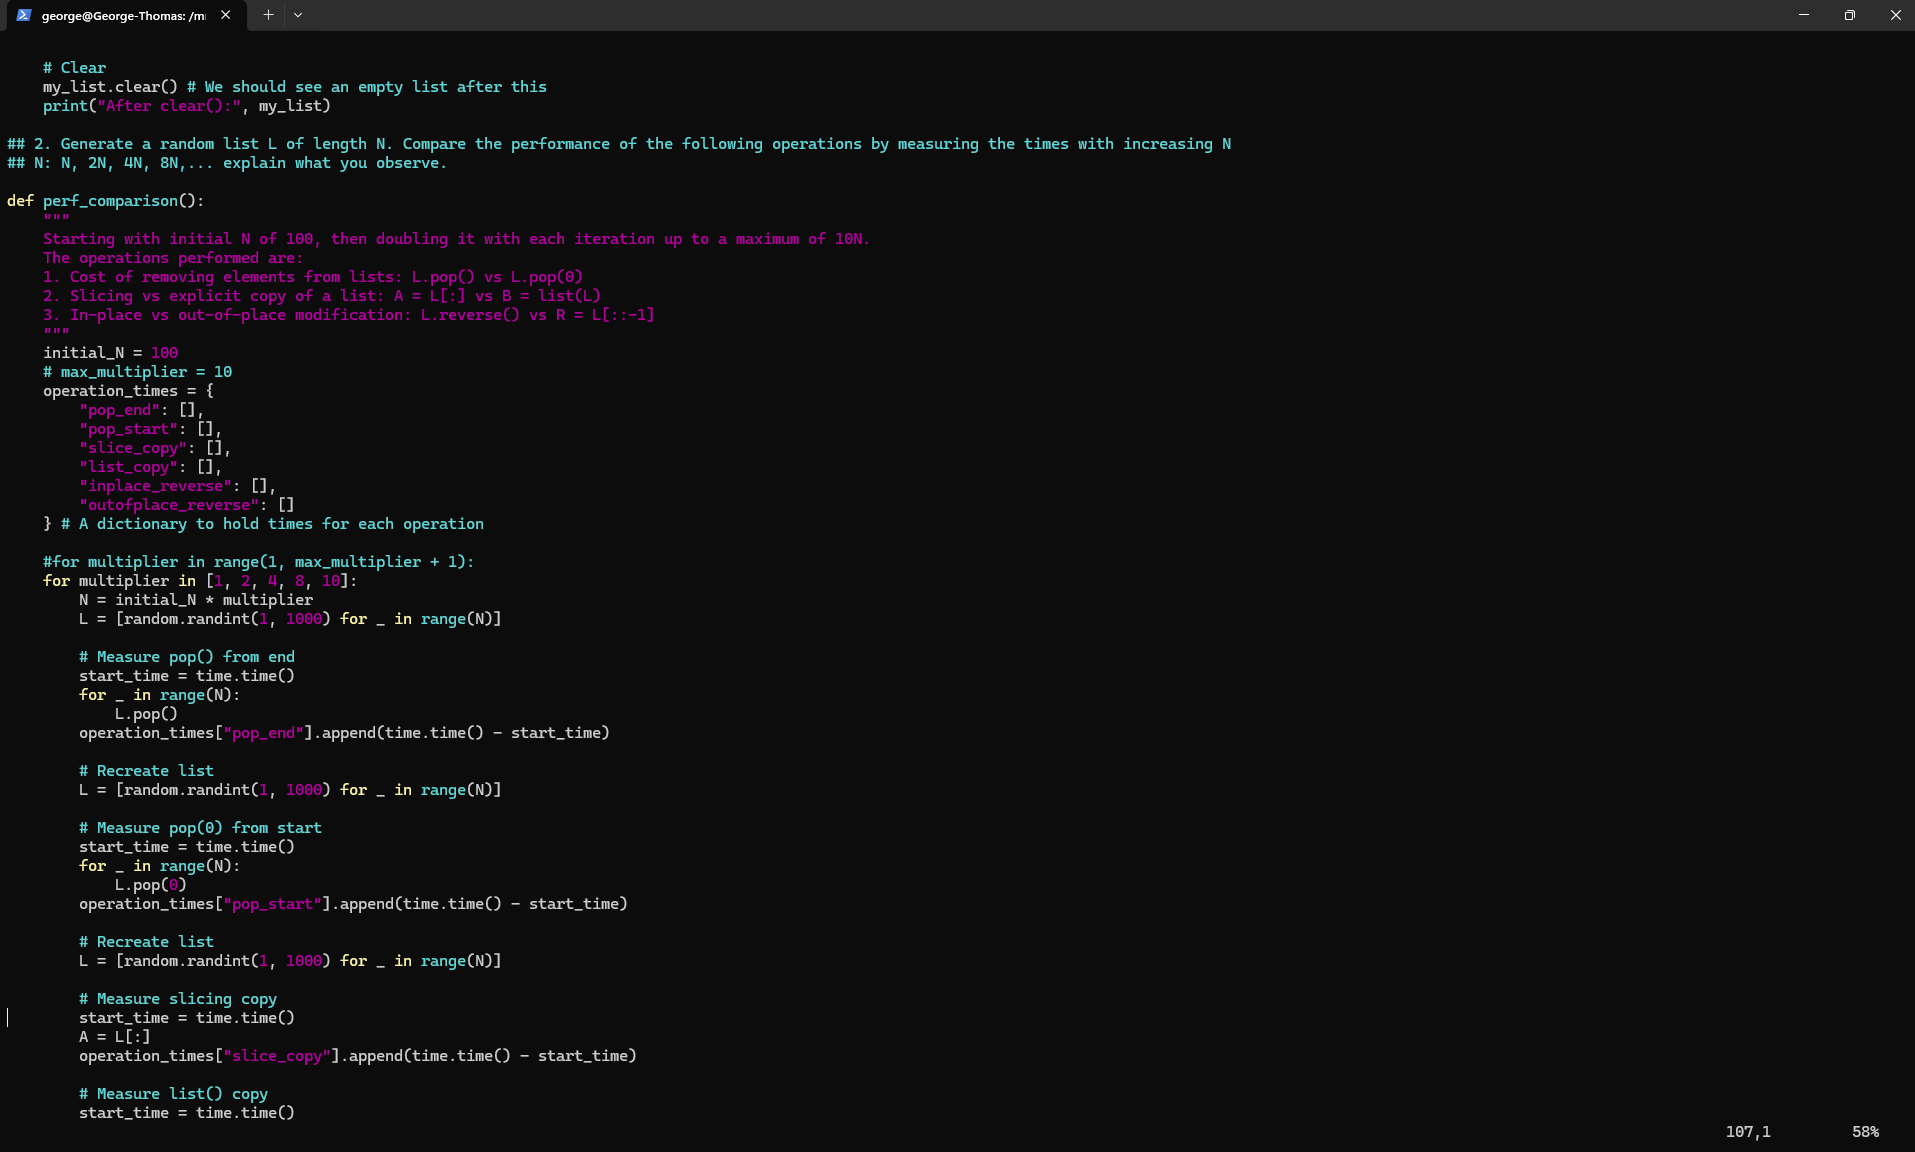
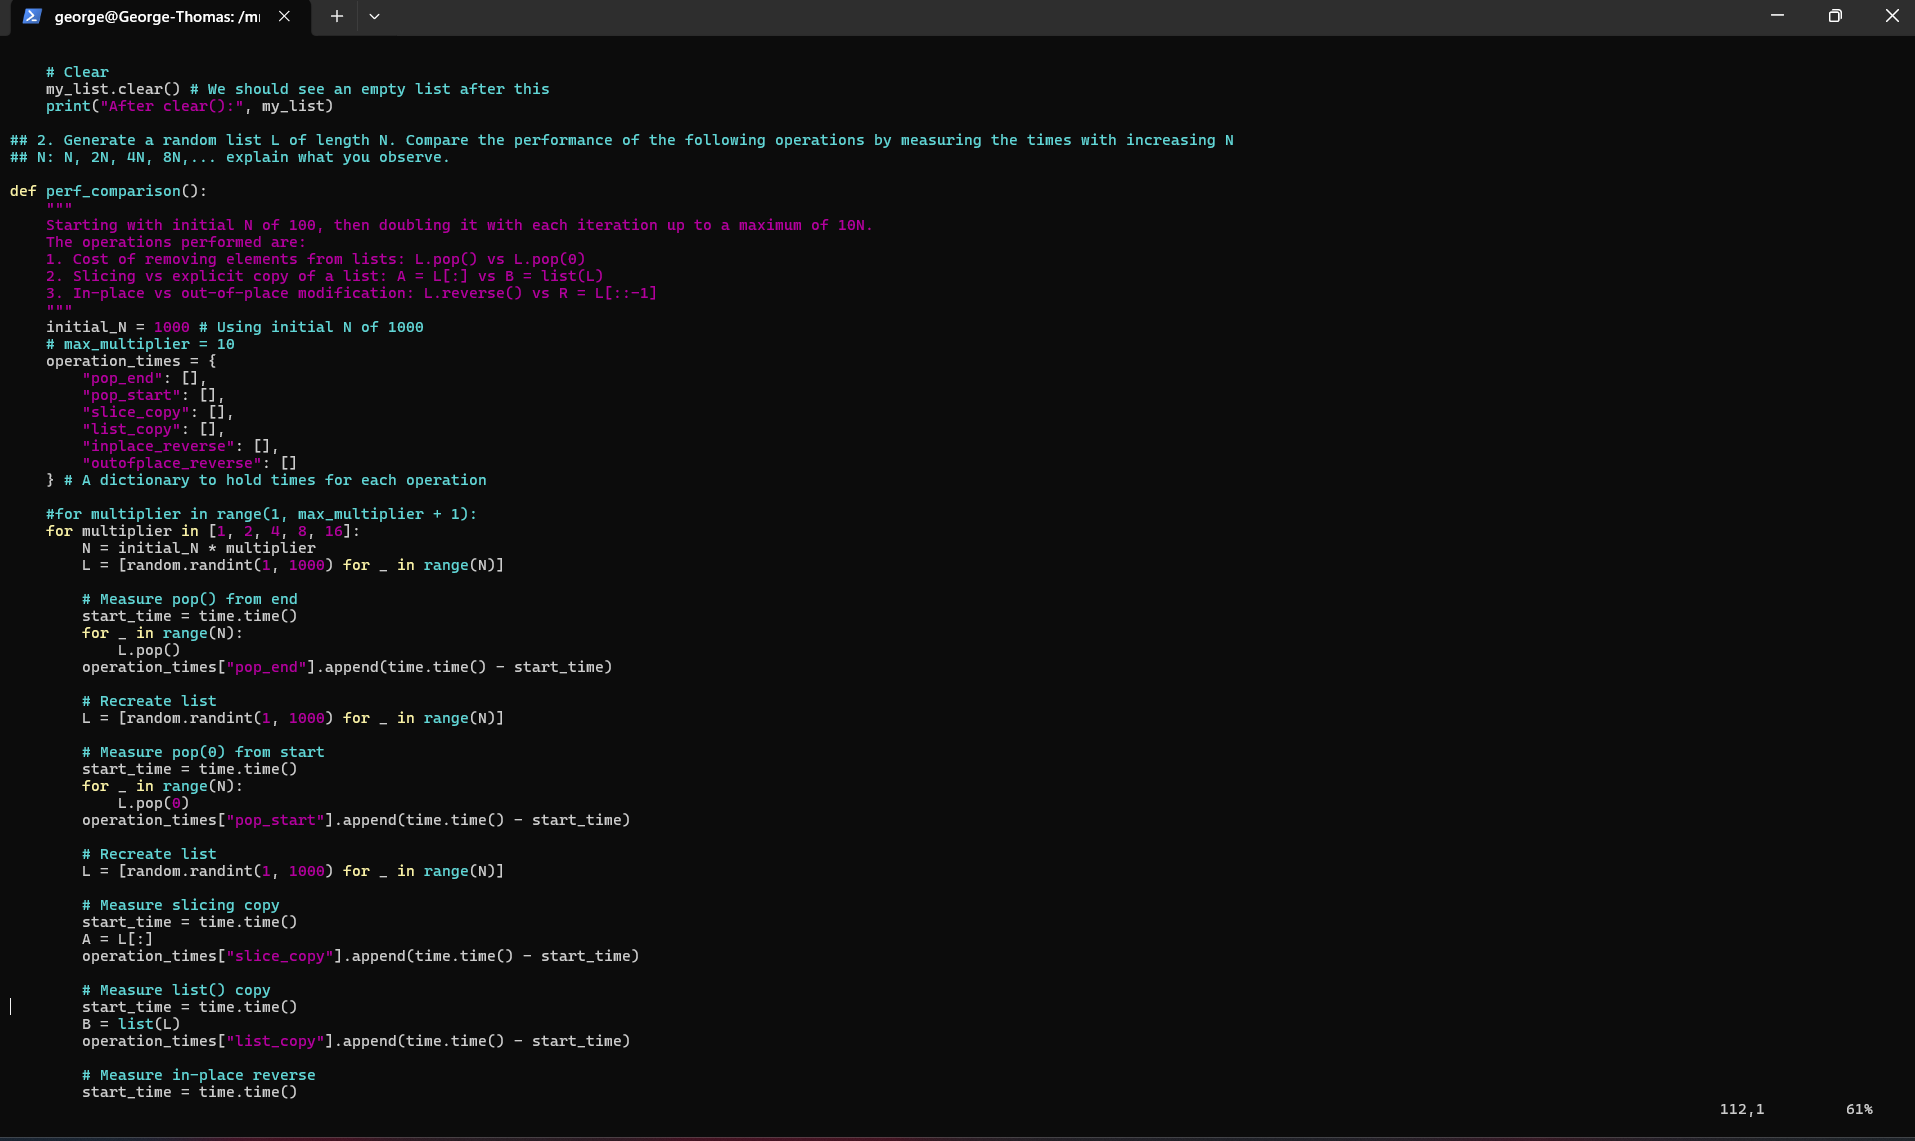
uploading the submission for lab assignment 3

Changed region(s): [[0.0, 0.0, 1.0, 1.0], [0.2773, 0.7055, 0.3081, 0.7362]]

diff --git a/lecture_3/lab_assignment_3.py b/lecture_3/lab_assignment_3.py
@@ -69,7 +69,7 @@ def perf_comparison():
     2. Slicing vs explicit copy of a list: A = L[:] vs B = list(L)
     3. In-place vs out-of-place modification: L.reverse() vs R = L[::-1]
     """
-    initial_N = 100
+    initial_N = 1000 # Using initial N of 1000
     # max_multiplier = 10
     operation_times = {
         "pop_end": [],
@@ -81,7 +81,7 @@ def perf_comparison():
     } # A dictionary to hold times for each operation
 
     #for multiplier in range(1, max_multiplier + 1):
-    for multiplier in [1, 2, 4, 8, 10]:    
+    for multiplier in [1, 2, 4, 8, 16]:    
         N = initial_N * multiplier
         L = [random.randint(1, 1000) for _ in range(N)]
 
